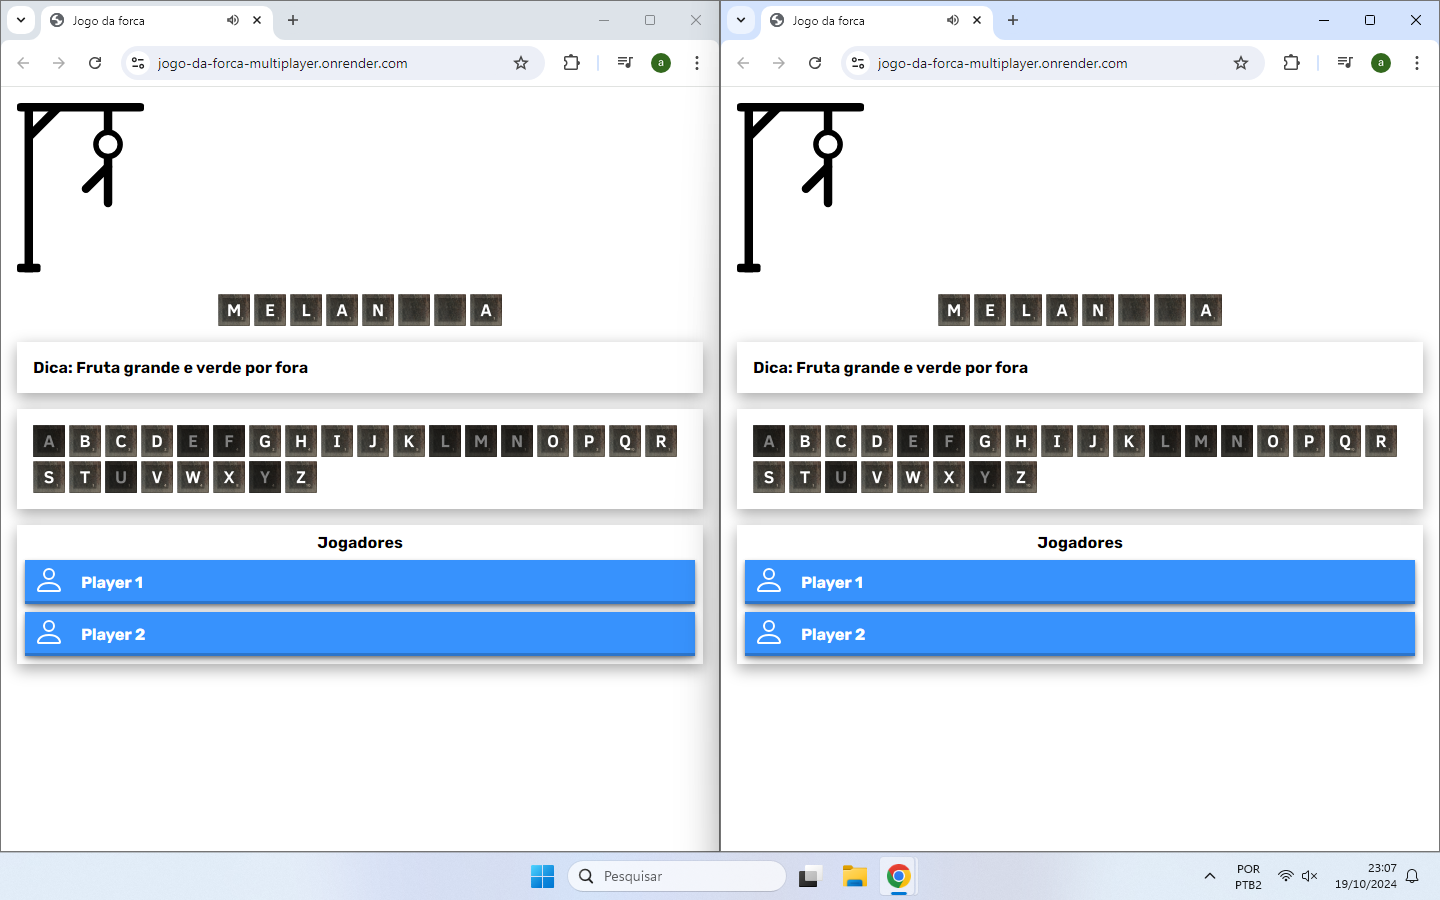
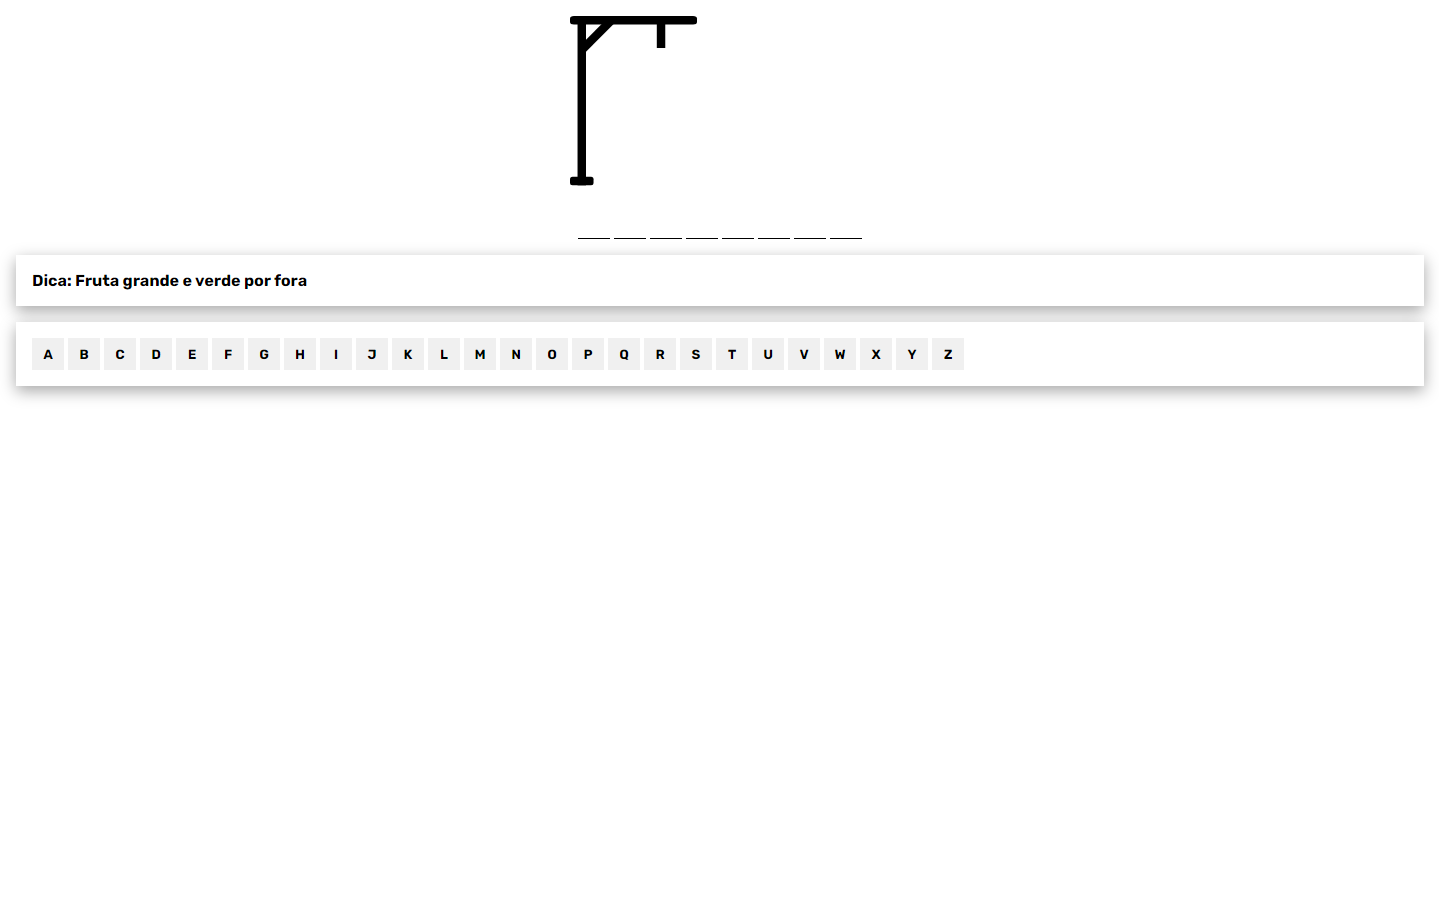
removed assets and fix errors

diff --git a/public/js/utils.js b/public/js/utils.js
@@ -1,36 +1,10 @@
-import { wordElement, letterButtons, hintElement, startMenuElement, playerElements, resultElement, menuButton, nextButton, keyboard, youWinText, gameOverText, playerWinText } from "./elements.js";
+import { wordElement, hintElement, startMenuElement, playerElements, resultElement, menuButton, nextButton, keyboard, youWinText, gameOverText, playerWinText } from "./elements.js";
 /** @type {HTMLAudioElement} */
 let music;
-
-const spritesheets = [
-  'spritesheet/blue_spritesheet',
-  'spritesheet/box_spritesheet',
-  'spritesheet/brown_spritesheet',
-  'spritesheet/marble_spritesheet',
-  'spritesheet/metal_spritesheet',
-  'spritesheet/solid_spritesheet',
-  'spritesheet/wood_spritesheet',
-  'spritesheet/yellow_spritesheet'
-];
-
-let subtextures = [];
 
 export const loadAssets = async () => {
   const src = await (await fetch('/music')).text();
   music = new Audio(src);
-
-  const loadSpritesheet = async (spritesheet) => {
-    const response = await fetch(spritesheet + '.xml');
-    const text = await response.text();
-    const xml = new DOMParser().parseFromString(text, 'application/xml');
-    const images = Array.from(xml.getElementsByTagName('SubTexture'));
-    return images;
-  };
-
-  await Promise.all(spritesheets.map(async (spritesheet) => {
-    const images = await loadSpritesheet(spritesheet);
-    subtextures.push({ images, spritesheet });
-  }));
 };
 
 export const playMusic = async () => {
@@ -39,26 +13,6 @@ export const playMusic = async () => {
     music.volume = 0.05;
     music.play();
   }
-}
-
-export const resize = () => {
-  const mediaQuery = window.innerWidth >= 768;
-
-  [...letterButtons].forEach(letter => {
-    let ox = parseInt(letter.dataset.originalX);
-    let oy = parseInt(letter.dataset.originalY);
-    let x = mediaQuery ? ox / 4 : ox / 8;
-    let y = mediaQuery ? oy / 4 : oy / 8;
-    letter.style.backgroundPosition = `-${x}px -${y}px`;
-  });
-
-  [...wordElement.children].forEach(letter => {
-    let ox = parseInt(letter.dataset.originalX);
-    let oy = parseInt(letter.dataset.originalY);
-    let x = mediaQuery ? ox / 4 : ox / 8;
-    let y = mediaQuery ? oy / 4 : oy / 8;
-    letter.style.backgroundPosition = `-${x}px -${y}px`;
-  })
 }
 
 /** 
@@ -71,36 +25,21 @@ export const createUI = async (length, hint, onclick) => {
   hintElement.innerText = hint ? `Dica: ${hint}` : '';
 
   document.querySelectorAll('.fill').forEach(e => e.classList.remove('fill'));
-  const { images, spritesheet } = subtextures[Math.floor(Math.random() * subtextures.length)];
 
   for (let i = 0; i < letters.length; i++) {
-    const letterSubTexture = images.find(e => e.getAttribute('name') == `letter_${letters[i]}.png`);
-    if (letterSubTexture) {
-      let ox = parseInt(letterSubTexture.getAttribute('x'));
-      let oy = parseInt(letterSubTexture.getAttribute('y'));
-      const letterBtn = letterButtons.namedItem(letters[i]);
-      letterBtn.dataset.originalX = `${ox}`
-      letterBtn.dataset.originalY = `${oy}`;
-      letterBtn.name = letters[i];
-      letterBtn.ariaLabel = letters[i];
-      letterBtn.style.backgroundImage = `url(${spritesheet}.png)`;
-      letterBtn.disabled = false;
-      letterBtn.onclick = onclick;
-    }
+    keyboard.children[i].name = letters[i];
+    keyboard.children[i].ariaLabel = letters[i];
+    keyboard.children[i].disabled = false;
+    keyboard.children[i].onclick = onclick;
   }
 
   let html = '';
-  const letterSubTexture = images.find(e => e.getAttribute('name') == `letter.png`);
   for (let i = 0; i < length; i++) {
-    let ox = parseInt(letterSubTexture.getAttribute('x'));
-    let oy = parseInt(letterSubTexture.getAttribute('y'));
-    const style = `background-image: url(${spritesheet}.png);`;
-    html += `<div data-original-x='${ox}' data-original-y='${oy}' style='${style}' class='letter'></div>`;
+    html += `<div class='letter'></div>`;
   }
   keyboard.classList.remove('hidde');
   wordElement.classList.remove('hidde');
   wordElement.innerHTML = html;
-  resize();
 }
 
 /** 
@@ -109,15 +48,12 @@ export const createUI = async (length, hint, onclick) => {
  * @param {number} errors
  */
 export const updateUI = (usedLetters, correctLetters, errors) => {
-  usedLetters.forEach(e => letterButtons.namedItem(e).disabled = true);
+  usedLetters.forEach(e => keyboard.children.namedItem(e).disabled = true);
 
   correctLetters.forEach((e, i) => {
-    const letterBtn = letterButtons.namedItem(e);
-    if (letterBtn) {
-      wordElement.children[i].dataset.originalX = letterBtn.dataset.originalX;
-      wordElement.children[i].dataset.originalY = letterBtn.dataset.originalY;
-      wordElement.children[i].style.backgroundPosition = letterBtn.style.backgroundPosition;
-      wordElement.children[i].classList.add('shake')
+    if (e) {
+      wordElement.children[i].innerText = e;
+      wordElement.children[i].classList.add('shake');
     }
   });
 
@@ -130,7 +66,7 @@ export const updateUI = (usedLetters, correctLetters, errors) => {
 export const resetUI = () => {
   document.querySelectorAll('.fill').forEach(e => e.classList.remove('fill'));
   keyboard.classList.add('hidde');
-  [...letterButtons].forEach(e => { e.disabled = true; e.onclick = null });
+  [...keyboard.children].forEach(e => { e.disabled = true; e.onclick = null });
   startMenuElement.classList.remove('hidde');
   wordElement.innerHTML = '';
   playerElements.innerHTML = '';
@@ -163,7 +99,7 @@ export const showLose = () => {
 
 /** @param {string} name */
 export const showResultMultiplayer = (name) => {
-  [...letterButtons].forEach(e => { e.disabled = true; e.onclick = null });
+  [...keyboard.childNodes].forEach(e => { e.disabled = true; e.onclick = null });
   resultElement.classList.remove('hidde');
   youWinText.classList.add('hidde');
   gameOverText.classList.add('hidde');

diff --git a/public/index.html b/public/index.html
@@ -56,32 +56,32 @@
       <div class='hint hidde' id='hint'></div>
 
       <div class='keyboard hidde' id="keyboard">
-        <button aria-label='A' name='A' class='letter'></button>
-        <button aria-label='B' name='B' class='letter'></button>
-        <button aria-label='C' name='C' class='letter'></button>
-        <button aria-label='D' name='D' class='letter'></button>
-        <button aria-label='E' name='E' class='letter'></button>
-        <button aria-label='F' name='F' class='letter'></button>
-        <button aria-label='G' name='G' class='letter'></button>
-        <button aria-label='H' name='H' class='letter'></button>
-        <button aria-label='I' name='I' class='letter'></button>
-        <button aria-label='J' name='J' class='letter'></button>
-        <button aria-label='K' name='K' class='letter'></button>
-        <button aria-label='L' name='L' class='letter'></button>
-        <button aria-label='M' name='M' class='letter'></button>
-        <button aria-label='N' name='N' class='letter'></button>
-        <button aria-label='O' name='O' class='letter'></button>
-        <button aria-label='P' name='P' class='letter'></button>
-        <button aria-label='Q' name='Q' class='letter'></button>
-        <button aria-label='R' name='R' class='letter'></button>
-        <button aria-label='S' name='S' class='letter'></button>
-        <button aria-label='T' name='T' class='letter'></button>
-        <button aria-label='U' name='U' class='letter'></button>
-        <button aria-label='V' name='V' class='letter'></button>
-        <button aria-label='W' name='W' class='letter'></button>
-        <button aria-label='X' name='X' class='letter'></button>
-        <button aria-label='Y' name='Y' class='letter'></button>
-        <button aria-label='Z' name='Z' class='letter'></button>
+        <button aria-label='A' name='A' class='letter'>A</button>
+        <button aria-label='B' name='B' class='letter'>B</button>
+        <button aria-label='C' name='C' class='letter'>C</button>
+        <button aria-label='D' name='D' class='letter'>D</button>
+        <button aria-label='E' name='E' class='letter'>E</button>
+        <button aria-label='F' name='F' class='letter'>F</button>
+        <button aria-label='G' name='G' class='letter'>G</button>
+        <button aria-label='H' name='H' class='letter'>H</button>
+        <button aria-label='I' name='I' class='letter'>I</button>
+        <button aria-label='J' name='J' class='letter'>J</button>
+        <button aria-label='K' name='K' class='letter'>K</button>
+        <button aria-label='L' name='L' class='letter'>L</button>
+        <button aria-label='M' name='M' class='letter'>M</button>
+        <button aria-label='N' name='N' class='letter'>N</button>
+        <button aria-label='O' name='O' class='letter'>O</button>
+        <button aria-label='P' name='P' class='letter'>P</button>
+        <button aria-label='Q' name='Q' class='letter'>Q</button>
+        <button aria-label='R' name='R' class='letter'>R</button>
+        <button aria-label='S' name='S' class='letter'>S</button>
+        <button aria-label='T' name='T' class='letter'>T</button>
+        <button aria-label='U' name='U' class='letter'>U</button>
+        <button aria-label='V' name='V' class='letter'>V</button>
+        <button aria-label='W' name='W' class='letter'>W</button>
+        <button aria-label='X' name='X' class='letter'>X</button>
+        <button aria-label='Y' name='Y' class='letter'>Y</button>
+        <button aria-label='Z' name='Z' class='letter'>Z</button>
       </div>
     </div>
 

diff --git a/public/js/single-player.js b/public/js/single-player.js
@@ -1,5 +1,5 @@
 import Game from './game.js';
-import { letterButtons, startMenuElement, startButton, resultElement, nextButton } from './elements.js';
+import { keyboard, startMenuElement, startButton, resultElement, nextButton } from './elements.js';
 import { playMusic, updateUI, createUI, showLose, showWin } from './utils.js';
 
 /** @type {Game} */
@@ -20,7 +20,7 @@ const onLetterClick = async (e) => {
   updateUI(usedLetters, correctLetters, errors);
 
   if (game.isEnd()) {
-    [...letterButtons].forEach(e => { e.disabled = true; e.onclick = null });
+    [...keyboard.children].forEach(e => { e.disabled = true; e.onclick = null });
   }
   if (errors == 6) {
     showLose();

diff --git a/public/css/styles.css b/public/css/styles.css
@@ -129,6 +129,8 @@ button {
 
 .word div {
   flex: none;
+  border-bottom: 1px solid #000;
+  text-align: center;
 }
 
 .hint {
@@ -151,7 +153,6 @@ button {
   width: 32px;
   background-size: 256px;
   display: inline-block;
-  background-repeat: no-repeat;
   font-weight: bolder;
   border: none;
   transition: transform 0.2s ease-in-out;
@@ -188,17 +189,10 @@ button {
   padding: .25em .5em;
   position: relative;
   text-transform: capitalize;
-  background-color: #3792fd;
-  color: #fff;
   box-shadow: var(--menu-shadow);
 }
 
 @media (min-width:768px) {
-  .letter {
-    width: 64px;
-    background-size: 512px;
-  }
-
   #hangman {
     margin: auto;
   }

diff --git a/public/js/script.js b/public/js/script.js
@@ -1,6 +1,6 @@
 import { createSocket } from './socket.js';
 import { playerElements, startMultiplayerButton, formName, menuButton, startMenuElement, formContainer } from './elements.js';
-import { playMusic, resize, updateUI, createUI, resetUI, showResultMultiplayer, loadAssets } from './utils.js';
+import { playMusic, updateUI, createUI, resetUI, showResultMultiplayer, loadAssets } from './utils.js';
 
 
 const createPlayerElement = (name) => {
@@ -66,7 +66,6 @@ formName.onreset = () => {
   startMenuElement.classList.remove('hidde');
 };
 
-window.onresize = resize;
 menuButton.onclick = resetUI;
 startMultiplayerButton.onclick = onStartMultiplayerClick;
 

diff --git a/public/js/elements.js b/public/js/elements.js
@@ -1,7 +1,6 @@
 /** buttons */
 const startButton = document.getElementById('start');
 const keyboard = document.getElementById('keyboard');
-const letterButtons = document.getElementsByClassName('letter');
 const startMultiplayerButton = document.getElementById('start-multiplayer');
 const menuButton = document.getElementById('menu');
 const nextButton = document.getElementById('next');
@@ -22,7 +21,6 @@ const playerWinText = document.getElementById('player-win');
 
 export {
   keyboard,
-  letterButtons,
   wordElement,
   playerElements,
   startMenuElement,
